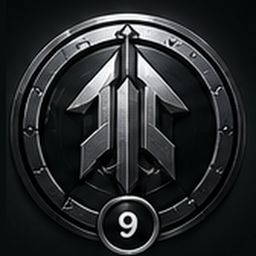
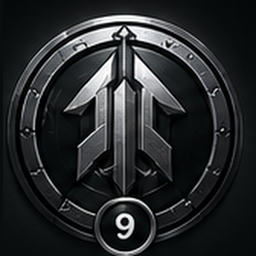
fix: médailles centrées individuellement sur leur anneau + cache-busting ?v=3

Changed region(s): [[0.0312, 0.0312, 0.9688, 1.0], [0.375, 0.5938, 0.4062, 0.625]]

diff --git a/src/pages/MonNox.tsx b/src/pages/MonNox.tsx
@@ -36,7 +36,7 @@ function xpNeeded(level: number) { return level >= 100 ? 0 : 60 + 5 * level; }
 function totalXpTo(level: number) { let x=0; for(let i=1;i<level;i++) x += xpNeeded(i); return x; }
 function levelFromXp(xp:number){ let level=1, left=Math.max(0,xp); while(level<100 && left>=xpNeeded(level)){ left-=xpNeeded(level); level++; } return level; }
 function RankMedal({rank, unlocked=true, active=false, size=86}:{rank:number;unlocked?:boolean;active?:boolean;size?:number}) {
-  const src = `/nox-ranks/rank-${String(rank).padStart(2, '0')}.png`;
+  const src = `/nox-ranks/rank-${String(rank).padStart(2, '0')}.png?v=3`;
 
   return (
     <div style={{
